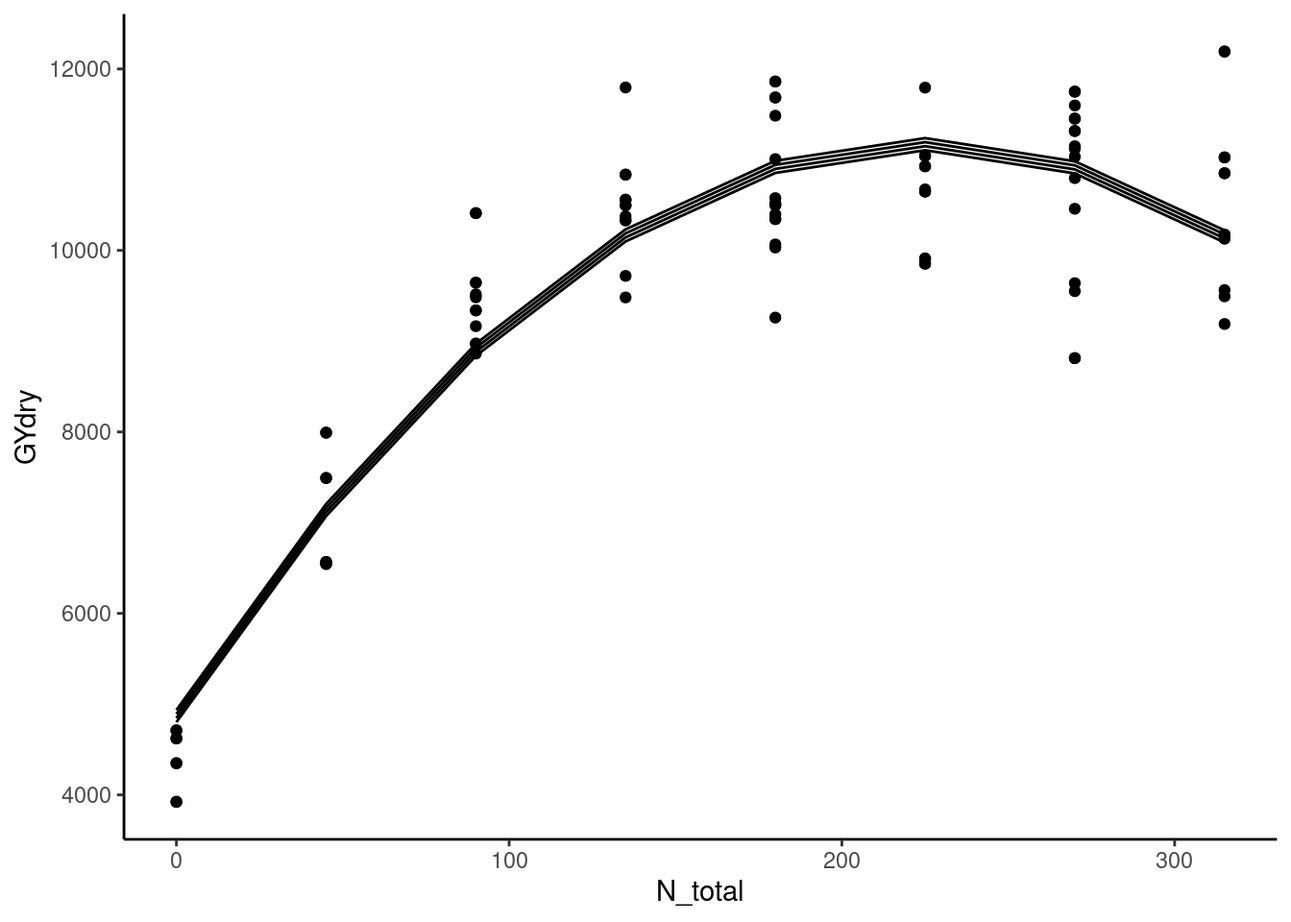
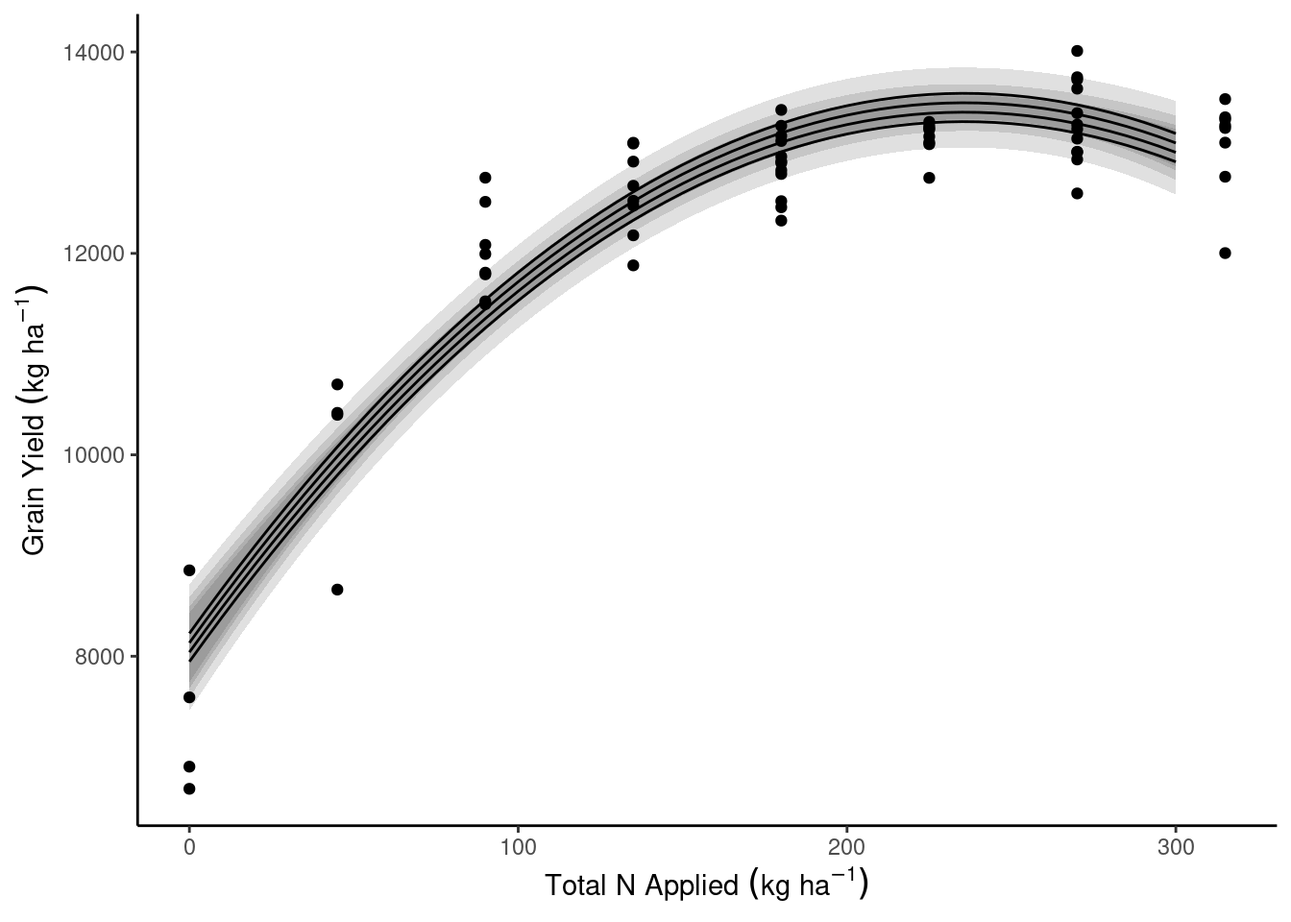
day 20

diff --git a/classes/day20_10042024.html b/classes/day20_10042024.html
@@ -98,7 +98,6 @@ pre > code.sourceCode > span > a:first-child::before { text-decoration: underlin
 <h2 class="anchored" data-anchor-id="announcements">Announcements</h2>
 <ul>
 <li><a href="https://forms.gle/5W3AWhzrEtoysn3P6">Mid-semester feedback survey</a> (please and thank you!)</li>
-<li></li>
 </ul>
 </section>
 <section id="model-selection-demo" class="level2">
@@ -124,189 +123,139 @@ pre > code.sourceCode > span > a:first-child::before { text-decoration: underlin
 <span id="cb2-13"><a href="#cb2-13" aria-hidden="true" tabindex="-1"></a>dd_N <span class="ot">&lt;-</span> readxl<span class="sc">::</span><span class="fu">read_xlsx</span>(<span class="st">"data/4.SoilN.xlsx"</span>, <span class="at">sheet =</span> <span class="dv">2</span>) <span class="sc">%&gt;%</span> </span>
 <span id="cb2-14"><a href="#cb2-14" aria-hidden="true" tabindex="-1"></a>  <span class="fu">filter</span>(Year <span class="sc">==</span> <span class="dv">2014</span>, </span>
 <span id="cb2-15"><a href="#cb2-15" aria-hidden="true" tabindex="-1"></a>         State <span class="sc">==</span> <span class="st">"IA"</span>, </span>
-<span id="cb2-16"><a href="#cb2-16" aria-hidden="true" tabindex="-1"></a>         Site <span class="sc">==</span> <span class="st">"Ames"</span>) <span class="sc">%&gt;%</span> </span>
-<span id="cb2-17"><a href="#cb2-17" aria-hidden="true" tabindex="-1"></a>  <span class="fu">mutate</span>(<span class="fu">across</span>(<span class="fu">c</span>(Plot_ID, N_Trt, Plant_N, Side_N, Plant_N_SI, Side_N_SI), <span class="sc">~</span><span class="fu">as.numeric</span>(.)))</span>
-<span id="cb2-18"><a href="#cb2-18" aria-hidden="true" tabindex="-1"></a>dd_N</span></code><button title="Copy to Clipboard" class="code-copy-button"><i class="bi"></i></button></pre></div>
-<div class="cell-output cell-output-stdout">
-<pre><code># A tibble: 100 × 17
-    Year State Site  Site_Prod Sam_Time Plot_ID Block N_Trt Plant_N Side_N
-   &lt;dbl&gt; &lt;chr&gt; &lt;chr&gt; &lt;chr&gt;     &lt;chr&gt;      &lt;dbl&gt; &lt;dbl&gt; &lt;dbl&gt;   &lt;dbl&gt;  &lt;dbl&gt;
- 1  2014 IA    Ames  Low       Post         101     1     2      40      0
- 2  2014 IA    Ames  Low       Post         102     1     3      80      0
- 3  2014 IA    Ames  Low       Post         103     1     9      40     40
- 4  2014 IA    Ames  Low       Post         104     1    14      40    240
- 5  2014 IA    Ames  Low       Post         105     1    16      80    160
- 6  2014 IA    Ames  Low       Post         106     1    13      40    200
- 7  2014 IA    Ames  Low       Post         107     1    10      40     80
- 8  2014 IA    Ames  Low       Post         108     1     5     160      0
- 9  2014 IA    Ames  Low       Post         109     1     1       0      0
-10  2014 IA    Ames  Low       Post         110     1     4     120      0
-# ℹ 90 more rows
-# ℹ 7 more variables: Plant_N_SI &lt;dbl&gt;, Side_N_SI &lt;dbl&gt;, Nitrate1 &lt;chr&gt;,
-#   Nitrate2 &lt;chr&gt;, Nitrate3 &lt;chr&gt;, Ammonium1 &lt;chr&gt;, Comment &lt;chr&gt;</code></pre>
-</div>
+<span id="cb2-16"><a href="#cb2-16" aria-hidden="true" tabindex="-1"></a>         Site <span class="sc">==</span> <span class="st">"Ames"</span>, </span>
+<span id="cb2-17"><a href="#cb2-17" aria-hidden="true" tabindex="-1"></a>         Plot_ID <span class="sc">%in%</span> dd_yield<span class="sc">$</span>Plot_ID, </span>
+<span id="cb2-18"><a href="#cb2-18" aria-hidden="true" tabindex="-1"></a>         Sam_Time <span class="sc">==</span> <span class="st">"Post"</span>) <span class="sc">%&gt;%</span> </span>
+<span id="cb2-19"><a href="#cb2-19" aria-hidden="true" tabindex="-1"></a>  <span class="fu">mutate</span>(<span class="fu">across</span>(<span class="fu">c</span>(Plot_ID, N_Trt, Plant_N, Side_N, Plant_N_SI, Side_N_SI), <span class="sc">~</span><span class="fu">as.numeric</span>(.)))</span></code><button title="Copy to Clipboard" class="code-copy-button"><i class="bi"></i></button></pre></div>
 </div>
 <div class="cell">
-<div class="sourceCode cell-code" id="cb4"><pre class="sourceCode r code-with-copy"><code class="sourceCode r"><span id="cb4-1"><a href="#cb4-1" aria-hidden="true" tabindex="-1"></a>dd_yield <span class="ot">&lt;-</span> readxl<span class="sc">::</span><span class="fu">read_xlsx</span>(<span class="st">"data/8.Yield_Plant_Measurements.xlsx"</span>, <span class="at">sheet =</span> <span class="dv">2</span>) <span class="sc">%&gt;%</span></span>
-<span id="cb4-2"><a href="#cb4-2" aria-hidden="true" tabindex="-1"></a>  <span class="fu">filter</span>(Year <span class="sc">==</span> <span class="dv">2014</span>, </span>
-<span id="cb4-3"><a href="#cb4-3" aria-hidden="true" tabindex="-1"></a>         State <span class="sc">==</span> <span class="st">"IA"</span>, </span>
-<span id="cb4-4"><a href="#cb4-4" aria-hidden="true" tabindex="-1"></a>         Site <span class="sc">==</span> <span class="st">"MasonCity"</span>) <span class="sc">%&gt;%</span> </span>
-<span id="cb4-5"><a href="#cb4-5" aria-hidden="true" tabindex="-1"></a>  <span class="fu">mutate</span>(<span class="fu">across</span>(VT_TissN<span class="sc">:</span>R4N, <span class="sc">~</span> <span class="fu">as.numeric</span>(.)))</span>
-<span id="cb4-6"><a href="#cb4-6" aria-hidden="true" tabindex="-1"></a>dd_soil <span class="ot">&lt;-</span> readxl<span class="sc">::</span><span class="fu">read_xlsx</span>(<span class="st">"data/1.Site_Characterization.xlsx"</span>, <span class="at">sheet =</span> <span class="dv">2</span>) <span class="sc">%&gt;%</span> </span>
-<span id="cb4-7"><a href="#cb4-7" aria-hidden="true" tabindex="-1"></a>  <span class="fu">filter</span>(Year <span class="sc">==</span> <span class="dv">2014</span>, </span>
-<span id="cb4-8"><a href="#cb4-8" aria-hidden="true" tabindex="-1"></a>         State <span class="sc">==</span> <span class="st">"IA"</span>, </span>
-<span id="cb4-9"><a href="#cb4-9" aria-hidden="true" tabindex="-1"></a>         Site <span class="sc">==</span> <span class="st">"MasonCity"</span>, </span>
-<span id="cb4-10"><a href="#cb4-10" aria-hidden="true" tabindex="-1"></a>         Horizon <span class="sc">==</span> <span class="st">"Ap"</span>) <span class="sc">%&gt;%</span> </span>
-<span id="cb4-11"><a href="#cb4-11" aria-hidden="true" tabindex="-1"></a>  <span class="fu">mutate</span>(<span class="at">Block =</span> <span class="fu">as.numeric</span>(Block), </span>
-<span id="cb4-12"><a href="#cb4-12" aria-hidden="true" tabindex="-1"></a>         <span class="fu">across</span>(Clay<span class="sc">:</span>WC, <span class="sc">~</span><span class="fu">as.numeric</span>(.)))</span>
-<span id="cb4-13"><a href="#cb4-13" aria-hidden="true" tabindex="-1"></a>dd_N <span class="ot">&lt;-</span> readxl<span class="sc">::</span><span class="fu">read_xlsx</span>(<span class="st">"data/4.SoilN.xlsx"</span>, <span class="at">sheet =</span> <span class="dv">2</span>) <span class="sc">%&gt;%</span> </span>
-<span id="cb4-14"><a href="#cb4-14" aria-hidden="true" tabindex="-1"></a>  <span class="fu">filter</span>(Year <span class="sc">==</span> <span class="dv">2014</span>, </span>
-<span id="cb4-15"><a href="#cb4-15" aria-hidden="true" tabindex="-1"></a>         State <span class="sc">==</span> <span class="st">"IA"</span>, </span>
-<span id="cb4-16"><a href="#cb4-16" aria-hidden="true" tabindex="-1"></a>         Site <span class="sc">==</span> <span class="st">"MasonCity"</span>) <span class="sc">%&gt;%</span> </span>
-<span id="cb4-17"><a href="#cb4-17" aria-hidden="true" tabindex="-1"></a>  <span class="fu">mutate</span>(<span class="fu">across</span>(<span class="fu">c</span>(Plot_ID, N_Trt, Plant_N, Side_N, Plant_N_SI, Side_N_SI), <span class="sc">~</span><span class="fu">as.numeric</span>(.)))</span>
-<span id="cb4-18"><a href="#cb4-18" aria-hidden="true" tabindex="-1"></a>dd_N</span></code><button title="Copy to Clipboard" class="code-copy-button"><i class="bi"></i></button></pre></div>
-<div class="cell-output cell-output-stdout">
-<pre><code># A tibble: 100 × 17
-    Year State Site      Site_Prod Sam_Time Plot_ID Block N_Trt Plant_N Side_N
-   &lt;dbl&gt; &lt;chr&gt; &lt;chr&gt;     &lt;chr&gt;     &lt;chr&gt;      &lt;dbl&gt; &lt;dbl&gt; &lt;dbl&gt;   &lt;dbl&gt;  &lt;dbl&gt;
- 1  2014 IA    MasonCity High      Post         101     1     2      40      0
- 2  2014 IA    MasonCity High      Post         102     1     3      80      0
- 3  2014 IA    MasonCity High      Post         103     1     9      40     40
- 4  2014 IA    MasonCity High      Post         104     1    14      40    240
- 5  2014 IA    MasonCity High      Post         105     1    16      80    160
- 6  2014 IA    MasonCity High      Post         106     1    13      40    200
- 7  2014 IA    MasonCity High      Post         107     1    10      40     80
- 8  2014 IA    MasonCity High      Post         108     1     5     160      0
- 9  2014 IA    MasonCity High      Post         109     1     1       0      0
-10  2014 IA    MasonCity High      Post         110     1     4     120      0
-# ℹ 90 more rows
-# ℹ 7 more variables: Plant_N_SI &lt;dbl&gt;, Side_N_SI &lt;dbl&gt;, Nitrate1 &lt;chr&gt;,
-#   Nitrate2 &lt;chr&gt;, Nitrate3 &lt;chr&gt;, Ammonium1 &lt;chr&gt;, Comment &lt;chr&gt;</code></pre>
-</div>
-</div>
-<div class="cell">
-<div class="sourceCode cell-code" id="cb6"><pre class="sourceCode r code-with-copy"><code class="sourceCode r"><span id="cb6-1"><a href="#cb6-1" aria-hidden="true" tabindex="-1"></a>dd_complete <span class="ot">&lt;-</span> dd_yield <span class="sc">%&gt;%</span> </span>
-<span id="cb6-2"><a href="#cb6-2" aria-hidden="true" tabindex="-1"></a>  <span class="fu">left_join</span>(dd_soil) <span class="sc">%&gt;%</span> </span>
-<span id="cb6-3"><a href="#cb6-3" aria-hidden="true" tabindex="-1"></a>  <span class="fu">left_join</span>(dd_N)</span></code><button title="Copy to Clipboard" class="code-copy-button"><i class="bi"></i></button></pre></div>
+<div class="sourceCode cell-code" id="cb3"><pre class="sourceCode r code-with-copy"><code class="sourceCode r"><span id="cb3-1"><a href="#cb3-1" aria-hidden="true" tabindex="-1"></a>dd_complete <span class="ot">&lt;-</span> dd_yield <span class="sc">%&gt;%</span> </span>
+<span id="cb3-2"><a href="#cb3-2" aria-hidden="true" tabindex="-1"></a>  <span class="fu">left_join</span>(dd_soil) <span class="sc">%&gt;%</span> </span>
+<span id="cb3-3"><a href="#cb3-3" aria-hidden="true" tabindex="-1"></a>  <span class="fu">left_join</span>(dd_N)</span></code><button title="Copy to Clipboard" class="code-copy-button"><i class="bi"></i></button></pre></div>
 <div class="cell-output cell-output-stderr">
 <pre><code>Joining with `by = join_by(Year, State, Site, Block)`
 Joining with `by = join_by(Year, State, Site, Site_Prod, Plot_ID, Block, N_Trt,
 Plant_N, Side_N, Plant_N_SI, Side_N_SI)`</code></pre>
 </div>
-<div class="sourceCode cell-code" id="cb8"><pre class="sourceCode r code-with-copy"><code class="sourceCode r"><span id="cb8-1"><a href="#cb8-1" aria-hidden="true" tabindex="-1"></a>dd_complete <span class="ot">&lt;-</span> dd_complete <span class="sc">%&gt;%</span> </span>
-<span id="cb8-2"><a href="#cb8-2" aria-hidden="true" tabindex="-1"></a>  <span class="fu">mutate</span>(<span class="at">gyield_14 =</span> GYdry<span class="sc">/</span>.<span class="dv">94</span>, </span>
-<span id="cb8-3"><a href="#cb8-3" aria-hidden="true" tabindex="-1"></a>         <span class="at">N_total =</span> Plant_N_SI <span class="sc">+</span> Side_N_SI)</span></code><button title="Copy to Clipboard" class="code-copy-button"><i class="bi"></i></button></pre></div>
+<div class="sourceCode cell-code" id="cb5"><pre class="sourceCode r code-with-copy"><code class="sourceCode r"><span id="cb5-1"><a href="#cb5-1" aria-hidden="true" tabindex="-1"></a>dd_complete <span class="ot">&lt;-</span> dd_complete <span class="sc">%&gt;%</span> </span>
+<span id="cb5-2"><a href="#cb5-2" aria-hidden="true" tabindex="-1"></a>  <span class="fu">mutate</span>(<span class="at">gyield_14 =</span> GYdry<span class="sc">/</span>.<span class="dv">94</span>, </span>
+<span id="cb5-3"><a href="#cb5-3" aria-hidden="true" tabindex="-1"></a>         <span class="at">N_total =</span> Plant_N_SI <span class="sc">+</span> Side_N_SI)</span></code><button title="Copy to Clipboard" class="code-copy-button"><i class="bi"></i></button></pre></div>
 </div>
 <div class="cell">
-<div class="sourceCode cell-code" id="cb9"><pre class="sourceCode r code-with-copy"><code class="sourceCode r"><span id="cb9-1"><a href="#cb9-1" aria-hidden="true" tabindex="-1"></a>dd_complete <span class="sc">%&gt;%</span> </span>
-<span id="cb9-2"><a href="#cb9-2" aria-hidden="true" tabindex="-1"></a>  <span class="fu">ggplot</span>(<span class="fu">aes</span>(N_total, GYdry))<span class="sc">+</span></span>
-<span id="cb9-3"><a href="#cb9-3" aria-hidden="true" tabindex="-1"></a>  <span class="fu">geom_point</span>()</span></code><button title="Copy to Clipboard" class="code-copy-button"><i class="bi"></i></button></pre></div>
+<div class="sourceCode cell-code" id="cb6"><pre class="sourceCode r code-with-copy"><code class="sourceCode r"><span id="cb6-1"><a href="#cb6-1" aria-hidden="true" tabindex="-1"></a>dd_complete <span class="sc">%&gt;%</span> </span>
+<span id="cb6-2"><a href="#cb6-2" aria-hidden="true" tabindex="-1"></a>  <span class="fu">ggplot</span>(<span class="fu">aes</span>(N_total, gyield_14))<span class="sc">+</span></span>
+<span id="cb6-3"><a href="#cb6-3" aria-hidden="true" tabindex="-1"></a>  <span class="fu">geom_point</span>()<span class="sc">+</span></span>
+<span id="cb6-4"><a href="#cb6-4" aria-hidden="true" tabindex="-1"></a>  <span class="fu">theme_classic</span>()<span class="sc">+</span></span>
+<span id="cb6-5"><a href="#cb6-5" aria-hidden="true" tabindex="-1"></a>  <span class="fu">labs</span>(<span class="at">x =</span> <span class="fu">expression</span>(Total<span class="sc">~</span>N<span class="sc">~</span>Applied<span class="sc">~</span>(kg<span class="sc">~</span>ha<span class="sc">^</span>{<span class="sc">-</span><span class="dv">1</span>})),</span>
+<span id="cb6-6"><a href="#cb6-6" aria-hidden="true" tabindex="-1"></a>       <span class="at">y =</span> <span class="fu">expression</span>(Grain<span class="sc">~</span>Yield<span class="sc">~</span>(kg<span class="sc">~</span>ha<span class="sc">^</span>{<span class="sc">-</span><span class="dv">1</span>})))</span></code><button title="Copy to Clipboard" class="code-copy-button"><i class="bi"></i></button></pre></div>
 <div class="cell-output-display">
-<p><img src="day20_10042024_files/figure-html/unnamed-chunk-5-1.png" class="img-fluid" width="672"></p>
+<p><img src="day20_10042024_files/figure-html/unnamed-chunk-4-1.png" class="img-fluid" width="672"></p>
 </div>
 </div>
 <div class="cell">
-<div class="sourceCode cell-code" id="cb10"><pre class="sourceCode r code-with-copy"><code class="sourceCode r"><span id="cb10-1"><a href="#cb10-1" aria-hidden="true" tabindex="-1"></a>m1 <span class="ot">&lt;-</span> <span class="fu">lm</span>(GYdry <span class="sc">~</span> N_total <span class="sc">+</span> <span class="fu">I</span>(N_total<span class="sc">^</span><span class="dv">2</span>), <span class="at">data =</span> dd_complete)</span>
-<span id="cb10-2"><a href="#cb10-2" aria-hidden="true" tabindex="-1"></a>m2 <span class="ot">&lt;-</span> <span class="fu">lm</span>(GYdry <span class="sc">~</span> N_total <span class="sc">+</span> <span class="fu">I</span>(N_total<span class="sc">^</span><span class="dv">2</span>) <span class="sc">+</span> Block , <span class="at">data =</span> dd_complete)</span>
-<span id="cb10-3"><a href="#cb10-3" aria-hidden="true" tabindex="-1"></a>m3 <span class="ot">&lt;-</span> <span class="fu">lm</span>(GYdry <span class="sc">~</span> N_total <span class="sc">+</span> <span class="fu">I</span>(N_total<span class="sc">^</span><span class="dv">2</span>) <span class="sc">+</span> Block <span class="sc">+</span> TOC, <span class="at">data =</span> dd_complete)</span>
-<span id="cb10-4"><a href="#cb10-4" aria-hidden="true" tabindex="-1"></a>m4 <span class="ot">&lt;-</span> <span class="fu">lm</span>(GYdry <span class="sc">~</span> N_total <span class="sc">+</span> <span class="fu">I</span>(N_total<span class="sc">^</span><span class="dv">2</span>) <span class="sc">+</span> Block <span class="sc">+</span> TOC <span class="sc">+</span> Clay, <span class="at">data =</span> dd_complete)   </span>
-<span id="cb10-5"><a href="#cb10-5" aria-hidden="true" tabindex="-1"></a>m5 <span class="ot">&lt;-</span> <span class="fu">lm</span>(GYdry <span class="sc">~</span> N_total <span class="sc">+</span> <span class="fu">I</span>(N_total<span class="sc">^</span><span class="dv">2</span>) <span class="sc">+</span> Block <span class="sc">+</span> TOC <span class="sc">+</span> Clay <span class="sc">+</span> Sand, <span class="at">data =</span> dd_complete)</span>
-<span id="cb10-6"><a href="#cb10-6" aria-hidden="true" tabindex="-1"></a>m6 <span class="ot">&lt;-</span> <span class="fu">lm</span>(GYdry <span class="sc">~</span> N_total <span class="sc">+</span> <span class="fu">I</span>(N_total<span class="sc">^</span><span class="dv">2</span>) <span class="sc">+</span> Block <span class="sc">+</span> TOC <span class="sc">+</span> Clay <span class="sc">+</span> Sand <span class="sc">+</span> Silt, <span class="at">data =</span> dd_complete)</span></code><button title="Copy to Clipboard" class="code-copy-button"><i class="bi"></i></button></pre></div>
+<div class="sourceCode cell-code" id="cb7"><pre class="sourceCode r code-with-copy"><code class="sourceCode r"><span id="cb7-1"><a href="#cb7-1" aria-hidden="true" tabindex="-1"></a>m0 <span class="ot">&lt;-</span> <span class="fu">lm</span>(gyield_14 <span class="sc">~</span> N_total, <span class="at">data =</span> dd_complete)</span>
+<span id="cb7-2"><a href="#cb7-2" aria-hidden="true" tabindex="-1"></a>m1 <span class="ot">&lt;-</span> <span class="fu">lm</span>(gyield_14 <span class="sc">~</span> N_total <span class="sc">+</span> <span class="fu">I</span>(N_total<span class="sc">^</span><span class="dv">2</span>), <span class="at">data =</span> dd_complete)</span>
+<span id="cb7-3"><a href="#cb7-3" aria-hidden="true" tabindex="-1"></a>m2 <span class="ot">&lt;-</span> <span class="fu">lm</span>(gyield_14 <span class="sc">~</span> N_total <span class="sc">+</span> <span class="fu">I</span>(N_total<span class="sc">^</span><span class="dv">2</span>) <span class="sc">+</span> Block , <span class="at">data =</span> dd_complete)</span>
+<span id="cb7-4"><a href="#cb7-4" aria-hidden="true" tabindex="-1"></a>m3 <span class="ot">&lt;-</span> <span class="fu">lm</span>(gyield_14 <span class="sc">~</span> N_total <span class="sc">+</span> <span class="fu">I</span>(N_total<span class="sc">^</span><span class="dv">2</span>) <span class="sc">+</span> Block <span class="sc">+</span> PMPM, <span class="at">data =</span> dd_complete)</span>
+<span id="cb7-5"><a href="#cb7-5" aria-hidden="true" tabindex="-1"></a>m4 <span class="ot">&lt;-</span> <span class="fu">lm</span>(gyield_14 <span class="sc">~</span> N_total <span class="sc">+</span> <span class="fu">I</span>(N_total<span class="sc">^</span><span class="dv">2</span>) <span class="sc">+</span> Block <span class="sc">+</span> PMPM <span class="sc">+</span> Clay, <span class="at">data =</span> dd_complete)   </span>
+<span id="cb7-6"><a href="#cb7-6" aria-hidden="true" tabindex="-1"></a>m5 <span class="ot">&lt;-</span> <span class="fu">lm</span>(gyield_14 <span class="sc">~</span> N_total <span class="sc">+</span> <span class="fu">I</span>(N_total<span class="sc">^</span><span class="dv">2</span>) <span class="sc">+</span> Block <span class="sc">+</span> PMPM <span class="sc">+</span> Clay <span class="sc">+</span> Sand, <span class="at">data =</span> dd_complete)</span>
+<span id="cb7-7"><a href="#cb7-7" aria-hidden="true" tabindex="-1"></a>m6 <span class="ot">&lt;-</span> <span class="fu">lm</span>(gyield_14 <span class="sc">~</span> N_total <span class="sc">+</span> <span class="fu">I</span>(N_total<span class="sc">^</span><span class="dv">2</span>) <span class="sc">+</span> Block <span class="sc">+</span> PMPM <span class="sc">+</span> Clay <span class="sc">+</span> Sand <span class="sc">+</span> Silt, <span class="at">data =</span> dd_complete)</span></code><button title="Copy to Clipboard" class="code-copy-button"><i class="bi"></i></button></pre></div>
 </div>
 <div class="cell">
-<div class="sourceCode cell-code" id="cb11"><pre class="sourceCode r code-with-copy"><code class="sourceCode r"><span id="cb11-1"><a href="#cb11-1" aria-hidden="true" tabindex="-1"></a><span class="fu">summary</span>(m1)</span></code><button title="Copy to Clipboard" class="code-copy-button"><i class="bi"></i></button></pre></div>
+<div class="sourceCode cell-code" id="cb8"><pre class="sourceCode r code-with-copy"><code class="sourceCode r"><span id="cb8-1"><a href="#cb8-1" aria-hidden="true" tabindex="-1"></a><span class="fu">summary</span>(m1)</span></code><button title="Copy to Clipboard" class="code-copy-button"><i class="bi"></i></button></pre></div>
 <div class="cell-output cell-output-stdout">
 <pre><code>
 Call:
-lm(formula = GYdry ~ N_total + I(N_total^2), data = dd_complete)
+lm(formula = gyield_14 ~ N_total + I(N_total^2), data = dd_complete)
 
 Residuals:
      Min       1Q   Median       3Q      Max 
--2102.35  -522.38    43.16   585.75  2037.25 
+-1402.83  -327.26   -14.24   417.76  1351.67 
 
 Coefficients:
                Estimate Std. Error t value Pr(&gt;|t|)    
-(Intercept)   4.868e+03  2.373e+02   20.51   &lt;2e-16 ***
-N_total       5.609e+01  3.190e+00   17.58   &lt;2e-16 ***
-I(N_total^2) -1.248e-01  9.367e-03  -13.32   &lt;2e-16 ***
+(Intercept)   8.087e+03  2.265e+02   35.70   &lt;2e-16 ***
+N_total       4.550e+01  2.886e+00   15.77   &lt;2e-16 ***
+I(N_total^2) -9.652e-02  8.239e-03  -11.71   &lt;2e-16 ***
 ---
 Signif. codes:  0 '***' 0.001 '**' 0.01 '*' 0.05 '.' 0.1 ' ' 1
 
-Residual standard error: 818.1 on 93 degrees of freedom
-Multiple R-squared:  0.8394,    Adjusted R-squared:  0.836 
-F-statistic: 243.1 on 2 and 93 DF,  p-value: &lt; 2.2e-16</code></pre>
+Residual standard error: 564.3 on 61 degrees of freedom
+Multiple R-squared:  0.8734,    Adjusted R-squared:  0.8692 
+F-statistic: 210.4 on 2 and 61 DF,  p-value: &lt; 2.2e-16</code></pre>
 </div>
-<div class="sourceCode cell-code" id="cb13"><pre class="sourceCode r code-with-copy"><code class="sourceCode r"><span id="cb13-1"><a href="#cb13-1" aria-hidden="true" tabindex="-1"></a><span class="fu">summary</span>(m5)</span></code><button title="Copy to Clipboard" class="code-copy-button"><i class="bi"></i></button></pre></div>
+<div class="sourceCode cell-code" id="cb10"><pre class="sourceCode r code-with-copy"><code class="sourceCode r"><span id="cb10-1"><a href="#cb10-1" aria-hidden="true" tabindex="-1"></a><span class="fu">summary</span>(m5)</span></code><button title="Copy to Clipboard" class="code-copy-button"><i class="bi"></i></button></pre></div>
 <div class="cell-output cell-output-stdout">
 <pre><code>
 Call:
-lm(formula = GYdry ~ N_total + I(N_total^2) + Block + TOC + Clay + 
-    Sand, data = dd_complete)
+lm(formula = gyield_14 ~ N_total + I(N_total^2) + Block + PMPM + 
+    Clay + Sand, data = dd_complete)
 
 Residuals:
      Min       1Q   Median       3Q      Max 
--1794.18  -583.12   -51.26   546.39  1857.44 
+-1358.67  -369.15    50.32   395.71  1328.61 
+
+Coefficients:
+               Estimate Std. Error t value Pr(&gt;|t|)    
+(Intercept)  -1.785e+04  2.108e+04  -0.847    0.401    
+N_total       4.556e+01  2.838e+00  16.052   &lt;2e-16 ***
+I(N_total^2) -9.704e-02  8.118e-03 -11.955   &lt;2e-16 ***
+Block         4.780e+02  3.068e+02   1.558    0.125    
+PMPM          1.999e+01  1.962e+01   1.019    0.313    
+Clay          6.088e+02  5.213e+02   1.168    0.248    
+Sand          2.290e+02  2.007e+02   1.141    0.259    
+---
+Signif. codes:  0 '***' 0.001 '**' 0.01 '*' 0.05 '.' 0.1 ' ' 1
+
+Residual standard error: 554.9 on 57 degrees of freedom
+Multiple R-squared:  0.8856,    Adjusted R-squared:  0.8736 
+F-statistic: 73.55 on 6 and 57 DF,  p-value: &lt; 2.2e-16</code></pre>
+</div>
+<div class="sourceCode cell-code" id="cb12"><pre class="sourceCode r code-with-copy"><code class="sourceCode r"><span id="cb12-1"><a href="#cb12-1" aria-hidden="true" tabindex="-1"></a><span class="fu">summary</span>(m6)</span></code><button title="Copy to Clipboard" class="code-copy-button"><i class="bi"></i></button></pre></div>
+<div class="cell-output cell-output-stdout">
+<pre><code>
+Call:
+lm(formula = gyield_14 ~ N_total + I(N_total^2) + Block + PMPM + 
+    Clay + Sand + Silt, data = dd_complete)
+
+Residuals:
+     Min       1Q   Median       3Q      Max 
+-1358.67  -369.15    50.32   395.71  1328.61 
 
 Coefficients: (1 not defined because of singularities)
                Estimate Std. Error t value Pr(&gt;|t|)    
-(Intercept)   4.865e+03  1.344e+03   3.619 0.000489 ***
-N_total       5.609e+01  3.151e+00  17.802  &lt; 2e-16 ***
-I(N_total^2) -1.248e-01  9.252e-03 -13.488  &lt; 2e-16 ***
-Block        -3.922e+01  8.362e+01  -0.469 0.640132    
-TOC           1.118e+03  5.120e+02   2.183 0.031658 *  
-Clay         -7.620e+01  5.201e+01  -1.465 0.146374    
-Sand                 NA         NA      NA       NA    
----
-Signif. codes:  0 '***' 0.001 '**' 0.01 '*' 0.05 '.' 0.1 ' ' 1
-
-Residual standard error: 808 on 90 degrees of freedom
-Multiple R-squared:  0.8484,    Adjusted R-squared:   0.84 
-F-statistic: 100.7 on 5 and 90 DF,  p-value: &lt; 2.2e-16</code></pre>
-</div>
-<div class="sourceCode cell-code" id="cb15"><pre class="sourceCode r code-with-copy"><code class="sourceCode r"><span id="cb15-1"><a href="#cb15-1" aria-hidden="true" tabindex="-1"></a><span class="fu">summary</span>(m6)</span></code><button title="Copy to Clipboard" class="code-copy-button"><i class="bi"></i></button></pre></div>
-<div class="cell-output cell-output-stdout">
-<pre><code>
-Call:
-lm(formula = GYdry ~ N_total + I(N_total^2) + Block + TOC + Clay + 
-    Sand + Silt, data = dd_complete)
-
-Residuals:
-     Min       1Q   Median       3Q      Max 
--1794.18  -583.12   -51.26   546.39  1857.44 
-
-Coefficients: (2 not defined because of singularities)
-               Estimate Std. Error t value Pr(&gt;|t|)    
-(Intercept)   4.865e+03  1.344e+03   3.619 0.000489 ***
-N_total       5.609e+01  3.151e+00  17.802  &lt; 2e-16 ***
-I(N_total^2) -1.248e-01  9.252e-03 -13.488  &lt; 2e-16 ***
-Block        -3.922e+01  8.362e+01  -0.469 0.640132    
-TOC           1.118e+03  5.120e+02   2.183 0.031658 *  
-Clay         -7.620e+01  5.201e+01  -1.465 0.146374    
-Sand                 NA         NA      NA       NA    
+(Intercept)  -1.785e+04  2.108e+04  -0.847    0.401    
+N_total       4.556e+01  2.838e+00  16.052   &lt;2e-16 ***
+I(N_total^2) -9.704e-02  8.118e-03 -11.955   &lt;2e-16 ***
+Block         4.780e+02  3.068e+02   1.558    0.125    
+PMPM          1.999e+01  1.962e+01   1.019    0.313    
+Clay          6.088e+02  5.213e+02   1.168    0.248    
+Sand          2.290e+02  2.007e+02   1.141    0.259    
 Silt                 NA         NA      NA       NA    
 ---
 Signif. codes:  0 '***' 0.001 '**' 0.01 '*' 0.05 '.' 0.1 ' ' 1
 
-Residual standard error: 808 on 90 degrees of freedom
-Multiple R-squared:  0.8484,    Adjusted R-squared:   0.84 
-F-statistic: 100.7 on 5 and 90 DF,  p-value: &lt; 2.2e-16</code></pre>
+Residual standard error: 554.9 on 57 degrees of freedom
+Multiple R-squared:  0.8856,    Adjusted R-squared:  0.8736 
+F-statistic: 73.55 on 6 and 57 DF,  p-value: &lt; 2.2e-16</code></pre>
 </div>
 </div>
 <div class="cell">
-<div class="sourceCode cell-code" id="cb17"><pre class="sourceCode r code-with-copy"><code class="sourceCode r"><span id="cb17-1"><a href="#cb17-1" aria-hidden="true" tabindex="-1"></a>metrics <span class="ot">&lt;-</span> <span class="fu">data.frame</span>(<span class="at">model =</span> <span class="fu">c</span>(<span class="st">"N_total + I(N_total^2)"</span>,</span>
-<span id="cb17-2"><a href="#cb17-2" aria-hidden="true" tabindex="-1"></a>                                <span class="st">"N_total + I(N_total^2) + Block"</span>,</span>
-<span id="cb17-3"><a href="#cb17-3" aria-hidden="true" tabindex="-1"></a>                                <span class="st">"N_total + I(N_total^2) + Block + Plot_ID"</span>, </span>
-<span id="cb17-4"><a href="#cb17-4" aria-hidden="true" tabindex="-1"></a>                                <span class="st">"N_total + I(N_total^2) + Block + Plot_ID + Clay"</span>, </span>
-<span id="cb17-5"><a href="#cb17-5" aria-hidden="true" tabindex="-1"></a>                                <span class="st">"N_total + I(N_total^2) + Block + Plot_ID + Clay + Sand"</span>, </span>
-<span id="cb17-6"><a href="#cb17-6" aria-hidden="true" tabindex="-1"></a>                                <span class="st">"N_total + I(N_total^2) + Block + Plot_ID + Clay + Sand + Silt"</span>),</span>
-<span id="cb17-7"><a href="#cb17-7" aria-hidden="true" tabindex="-1"></a>                      <span class="at">R2 =</span> <span class="fu">c</span>(<span class="fu">summary</span>(m1)<span class="sc">$</span>r.squared, <span class="fu">summary</span>(m2)<span class="sc">$</span>r.squared, <span class="fu">summary</span>(m3)<span class="sc">$</span>r.squared,</span>
-<span id="cb17-8"><a href="#cb17-8" aria-hidden="true" tabindex="-1"></a>                             <span class="fu">summary</span>(m4)<span class="sc">$</span>r.squared, <span class="fu">summary</span>(m5)<span class="sc">$</span>r.squared, <span class="fu">summary</span>(m6)<span class="sc">$</span>r.squared),</span>
-<span id="cb17-9"><a href="#cb17-9" aria-hidden="true" tabindex="-1"></a>                      <span class="at">R2_adj =</span> <span class="fu">c</span>(<span class="fu">summary</span>(m1)<span class="sc">$</span>adj.r.squared, <span class="fu">summary</span>(m2)<span class="sc">$</span>adj.r.squared, <span class="fu">summary</span>(m3)<span class="sc">$</span>adj.r.squared,</span>
-<span id="cb17-10"><a href="#cb17-10" aria-hidden="true" tabindex="-1"></a>                                 <span class="fu">summary</span>(m4)<span class="sc">$</span>adj.r.squared, <span class="fu">summary</span>(m5)<span class="sc">$</span>adj.r.squared, <span class="fu">summary</span>(m6)<span class="sc">$</span>adj.r.squared),</span>
-<span id="cb17-11"><a href="#cb17-11" aria-hidden="true" tabindex="-1"></a>                      <span class="at">AIC =</span> <span class="fu">AIC</span>(m1, m2, m3, m4, m5, m6)<span class="sc">$</span>AIC,</span>
-<span id="cb17-12"><a href="#cb17-12" aria-hidden="true" tabindex="-1"></a>                      <span class="at">BIC =</span> <span class="fu">BIC</span>(m1, m2, m3, m4, m5, m6)<span class="sc">$</span>BIC) </span>
-<span id="cb17-13"><a href="#cb17-13" aria-hidden="true" tabindex="-1"></a></span>
-<span id="cb17-14"><a href="#cb17-14" aria-hidden="true" tabindex="-1"></a>knitr<span class="sc">::</span><span class="fu">kable</span>(metrics, <span class="at">format =</span> <span class="st">"html"</span>)</span></code><button title="Copy to Clipboard" class="code-copy-button"><i class="bi"></i></button></pre></div>
+<div class="sourceCode cell-code" id="cb14"><pre class="sourceCode r code-with-copy"><code class="sourceCode r"><span id="cb14-1"><a href="#cb14-1" aria-hidden="true" tabindex="-1"></a>metrics <span class="ot">&lt;-</span> <span class="fu">data.frame</span>(<span class="at">model =</span> <span class="fu">c</span>(<span class="st">"N_total + I(N_total^2)"</span>,</span>
+<span id="cb14-2"><a href="#cb14-2" aria-hidden="true" tabindex="-1"></a>                                <span class="st">"N_total + I(N_total^2) + Block"</span>,</span>
+<span id="cb14-3"><a href="#cb14-3" aria-hidden="true" tabindex="-1"></a>                                <span class="st">"N_total + I(N_total^2) + Block + PMPM"</span>, </span>
+<span id="cb14-4"><a href="#cb14-4" aria-hidden="true" tabindex="-1"></a>                                <span class="st">"N_total + I(N_total^2) + Block + PMPM + Clay"</span>, </span>
+<span id="cb14-5"><a href="#cb14-5" aria-hidden="true" tabindex="-1"></a>                                <span class="st">"N_total + I(N_total^2) + Block + PMPM + Clay + Sand"</span>, </span>
+<span id="cb14-6"><a href="#cb14-6" aria-hidden="true" tabindex="-1"></a>                                <span class="st">"N_total + I(N_total^2) + Block + PMPM + Clay + Sand + Silt"</span>),</span>
+<span id="cb14-7"><a href="#cb14-7" aria-hidden="true" tabindex="-1"></a>                      <span class="at">R2 =</span> <span class="fu">c</span>(<span class="fu">summary</span>(m1)<span class="sc">$</span>r.squared, <span class="fu">summary</span>(m2)<span class="sc">$</span>r.squared, <span class="fu">summary</span>(m3)<span class="sc">$</span>r.squared,</span>
+<span id="cb14-8"><a href="#cb14-8" aria-hidden="true" tabindex="-1"></a>                             <span class="fu">summary</span>(m4)<span class="sc">$</span>r.squared, <span class="fu">summary</span>(m5)<span class="sc">$</span>r.squared, <span class="fu">summary</span>(m6)<span class="sc">$</span>r.squared),</span>
+<span id="cb14-9"><a href="#cb14-9" aria-hidden="true" tabindex="-1"></a>                      <span class="at">R2_adj =</span> <span class="fu">c</span>(<span class="fu">summary</span>(m1)<span class="sc">$</span>adj.r.squared, <span class="fu">summary</span>(m2)<span class="sc">$</span>adj.r.squared, <span class="fu">summary</span>(m3)<span class="sc">$</span>adj.r.squared,</span>
+<span id="cb14-10"><a href="#cb14-10" aria-hidden="true" tabindex="-1"></a>                                 <span class="fu">summary</span>(m4)<span class="sc">$</span>adj.r.squared, <span class="fu">summary</span>(m5)<span class="sc">$</span>adj.r.squared, <span class="fu">summary</span>(m6)<span class="sc">$</span>adj.r.squared),</span>
+<span id="cb14-11"><a href="#cb14-11" aria-hidden="true" tabindex="-1"></a>                      <span class="at">AIC =</span> <span class="fu">AIC</span>(m1, m2, m3, m4, m5, m6)<span class="sc">$</span>AIC,</span>
+<span id="cb14-12"><a href="#cb14-12" aria-hidden="true" tabindex="-1"></a>                      <span class="at">BIC =</span> <span class="fu">BIC</span>(m1, m2, m3, m4, m5, m6)<span class="sc">$</span>BIC) <span class="sc">%&gt;%</span> </span>
+<span id="cb14-13"><a href="#cb14-13" aria-hidden="true" tabindex="-1"></a>  <span class="fu">mutate</span>(<span class="fu">across</span>(R2<span class="sc">:</span>BIC, <span class="sc">~</span><span class="fu">round</span>(., <span class="dv">3</span>)))</span>
+<span id="cb14-14"><a href="#cb14-14" aria-hidden="true" tabindex="-1"></a></span>
+<span id="cb14-15"><a href="#cb14-15" aria-hidden="true" tabindex="-1"></a>knitr<span class="sc">::</span><span class="fu">kable</span>(metrics, <span class="at">format =</span> <span class="st">"html"</span>)</span></code><button title="Copy to Clipboard" class="code-copy-button"><i class="bi"></i></button></pre></div>
 <div class="cell-output-display">
 <table data-quarto-postprocess="true" class="table table-sm table-striped small">
 <thead>
@@ -321,45 +270,45 @@ F-statistic: 100.7 on 5 and 90 DF,  p-value: &lt; 2.2e-16</code></pre>
 <tbody>
 <tr class="odd">
 <td style="text-align: left;">N_total + I(N_total^2)</td>
-<td style="text-align: right;">0.8394172</td>
-<td style="text-align: right;">0.8359638</td>
-<td style="text-align: right;">1565.118</td>
-<td style="text-align: right;">1575.376</td>
+<td style="text-align: right;">0.873</td>
+<td style="text-align: right;">0.869</td>
+<td style="text-align: right;">997.500</td>
+<td style="text-align: right;">1006.136</td>
 </tr>
 <tr class="even">
 <td style="text-align: left;">N_total + I(N_total^2) + Block</td>
-<td style="text-align: right;">0.8400288</td>
-<td style="text-align: right;">0.8348124</td>
-<td style="text-align: right;">1566.752</td>
-<td style="text-align: right;">1579.574</td>
+<td style="text-align: right;">0.878</td>
+<td style="text-align: right;">0.872</td>
+<td style="text-align: right;">997.147</td>
+<td style="text-align: right;">1007.941</td>
 </tr>
 <tr class="odd">
-<td style="text-align: left;">N_total + I(N_total^2) + Block + Plot_ID</td>
-<td style="text-align: right;">0.8447791</td>
-<td style="text-align: right;">0.8379562</td>
-<td style="text-align: right;">1565.858</td>
-<td style="text-align: right;">1581.244</td>
+<td style="text-align: left;">N_total + I(N_total^2) + Block + PMPM</td>
+<td style="text-align: right;">0.882</td>
+<td style="text-align: right;">0.874</td>
+<td style="text-align: right;">996.822</td>
+<td style="text-align: right;">1009.775</td>
 </tr>
 <tr class="even">
-<td style="text-align: left;">N_total + I(N_total^2) + Block + Plot_ID + Clay</td>
-<td style="text-align: right;">0.8483950</td>
-<td style="text-align: right;">0.8399725</td>
-<td style="text-align: right;">1565.595</td>
-<td style="text-align: right;">1583.546</td>
+<td style="text-align: left;">N_total + I(N_total^2) + Block + PMPM + Clay</td>
+<td style="text-align: right;">0.883</td>
+<td style="text-align: right;">0.873</td>
+<td style="text-align: right;">998.453</td>
+<td style="text-align: right;">1013.566</td>
 </tr>
 <tr class="odd">
-<td style="text-align: left;">N_total + I(N_total^2) + Block + Plot_ID + Clay + Sand</td>
-<td style="text-align: right;">0.8483950</td>
-<td style="text-align: right;">0.8399725</td>
-<td style="text-align: right;">1565.595</td>
-<td style="text-align: right;">1583.546</td>
+<td style="text-align: left;">N_total + I(N_total^2) + Block + PMPM + Clay + Sand</td>
+<td style="text-align: right;">0.886</td>
+<td style="text-align: right;">0.874</td>
+<td style="text-align: right;">999.008</td>
+<td style="text-align: right;">1016.279</td>
 </tr>
 <tr class="even">
-<td style="text-align: left;">N_total + I(N_total^2) + Block + Plot_ID + Clay + Sand + Silt</td>
-<td style="text-align: right;">0.8483950</td>
-<td style="text-align: right;">0.8399725</td>
-<td style="text-align: right;">1565.595</td>
-<td style="text-align: right;">1583.546</td>
+<td style="text-align: left;">N_total + I(N_total^2) + Block + PMPM + Clay + Sand + Silt</td>
+<td style="text-align: right;">0.886</td>
+<td style="text-align: right;">0.874</td>
+<td style="text-align: right;">999.008</td>
+<td style="text-align: right;">1016.279</td>
 </tr>
 </tbody>
 </table>
@@ -368,19 +317,21 @@ F-statistic: 100.7 on 5 and 90 DF,  p-value: &lt; 2.2e-16</code></pre>
 </div>
 </div>
 <div class="cell">
-<div class="sourceCode cell-code" id="cb18"><pre class="sourceCode r code-with-copy"><code class="sourceCode r"><span id="cb18-1"><a href="#cb18-1" aria-hidden="true" tabindex="-1"></a>data_plot <span class="ot">&lt;-</span> <span class="fu">expand.grid</span>(<span class="at">N_total =</span> <span class="fu">seq</span>(<span class="dv">0</span>, <span class="dv">300</span>, <span class="at">by =</span> <span class="dv">5</span>), </span>
-<span id="cb18-2"><a href="#cb18-2" aria-hidden="true" tabindex="-1"></a>                         <span class="at">Block =</span> <span class="dv">1</span><span class="sc">:</span><span class="dv">4</span>)</span>
-<span id="cb18-3"><a href="#cb18-3" aria-hidden="true" tabindex="-1"></a>data_plot <span class="ot">&lt;-</span> data_plot <span class="sc">%&gt;%</span> <span class="fu">bind_cols</span>(<span class="fu">predict</span>(m2, <span class="at">newdata =</span> data_plot, <span class="at">interval =</span> <span class="st">"confidence"</span>))</span></code><button title="Copy to Clipboard" class="code-copy-button"><i class="bi"></i></button></pre></div>
+<div class="sourceCode cell-code" id="cb15"><pre class="sourceCode r code-with-copy"><code class="sourceCode r"><span id="cb15-1"><a href="#cb15-1" aria-hidden="true" tabindex="-1"></a>data_plot <span class="ot">&lt;-</span> <span class="fu">expand.grid</span>(<span class="at">N_total =</span> <span class="fu">seq</span>(<span class="dv">0</span>, <span class="dv">300</span>, <span class="at">by =</span> <span class="dv">5</span>), </span>
+<span id="cb15-2"><a href="#cb15-2" aria-hidden="true" tabindex="-1"></a>                         <span class="at">Block =</span> <span class="dv">1</span><span class="sc">:</span><span class="dv">4</span>)</span>
+<span id="cb15-3"><a href="#cb15-3" aria-hidden="true" tabindex="-1"></a>data_plot <span class="ot">&lt;-</span> data_plot <span class="sc">%&gt;%</span> <span class="fu">bind_cols</span>(<span class="fu">predict</span>(m2, <span class="at">newdata =</span> data_plot, <span class="at">interval =</span> <span class="st">"confidence"</span>))</span></code><button title="Copy to Clipboard" class="code-copy-button"><i class="bi"></i></button></pre></div>
 </div>
 <div class="cell">
-<div class="sourceCode cell-code" id="cb19"><pre class="sourceCode r code-with-copy"><code class="sourceCode r"><span id="cb19-1"><a href="#cb19-1" aria-hidden="true" tabindex="-1"></a>dd_complete <span class="sc">%&gt;%</span> </span>
-<span id="cb19-2"><a href="#cb19-2" aria-hidden="true" tabindex="-1"></a>  <span class="fu">ggplot</span>(<span class="fu">aes</span>(N_total, GYdry))<span class="sc">+</span></span>
-<span id="cb19-3"><a href="#cb19-3" aria-hidden="true" tabindex="-1"></a>  <span class="fu">theme_classic</span>()<span class="sc">+</span></span>
-<span id="cb19-4"><a href="#cb19-4" aria-hidden="true" tabindex="-1"></a>  <span class="fu">geom_ribbon</span>(<span class="fu">aes</span>(<span class="at">y =</span> fit, <span class="at">ymin =</span> lwr, <span class="at">ymax =</span> upr, <span class="at">group =</span> Block), <span class="at">data =</span> data_plot, <span class="at">alpha =</span> .<span class="dv">15</span>)<span class="sc">+</span></span>
-<span id="cb19-5"><a href="#cb19-5" aria-hidden="true" tabindex="-1"></a>  <span class="fu">geom_line</span>(<span class="fu">aes</span>(<span class="at">y =</span> fit, <span class="at">group =</span> Block), <span class="at">data =</span> data_plot)<span class="sc">+</span></span>
-<span id="cb19-6"><a href="#cb19-6" aria-hidden="true" tabindex="-1"></a>  <span class="fu">geom_point</span>()</span></code><button title="Copy to Clipboard" class="code-copy-button"><i class="bi"></i></button></pre></div>
+<div class="sourceCode cell-code" id="cb16"><pre class="sourceCode r code-with-copy"><code class="sourceCode r"><span id="cb16-1"><a href="#cb16-1" aria-hidden="true" tabindex="-1"></a>dd_complete <span class="sc">%&gt;%</span> </span>
+<span id="cb16-2"><a href="#cb16-2" aria-hidden="true" tabindex="-1"></a>  <span class="fu">ggplot</span>(<span class="fu">aes</span>(N_total, gyield_14))<span class="sc">+</span></span>
+<span id="cb16-3"><a href="#cb16-3" aria-hidden="true" tabindex="-1"></a>  <span class="fu">theme_classic</span>()<span class="sc">+</span></span>
+<span id="cb16-4"><a href="#cb16-4" aria-hidden="true" tabindex="-1"></a>  <span class="fu">geom_ribbon</span>(<span class="fu">aes</span>(<span class="at">y =</span> fit, <span class="at">ymin =</span> lwr, <span class="at">ymax =</span> upr, <span class="at">group =</span> Block), <span class="at">data =</span> data_plot, <span class="at">alpha =</span> .<span class="dv">15</span>)<span class="sc">+</span></span>
+<span id="cb16-5"><a href="#cb16-5" aria-hidden="true" tabindex="-1"></a>  <span class="fu">geom_line</span>(<span class="fu">aes</span>(<span class="at">y =</span> fit, <span class="at">group =</span> Block), <span class="at">data =</span> data_plot)<span class="sc">+</span></span>
+<span id="cb16-6"><a href="#cb16-6" aria-hidden="true" tabindex="-1"></a>  <span class="fu">geom_point</span>()<span class="sc">+</span></span>
+<span id="cb16-7"><a href="#cb16-7" aria-hidden="true" tabindex="-1"></a>  <span class="fu">labs</span>(<span class="at">x =</span> <span class="fu">expression</span>(Total<span class="sc">~</span>N<span class="sc">~</span>Applied<span class="sc">~</span>(kg<span class="sc">~</span>ha<span class="sc">^</span>{<span class="sc">-</span><span class="dv">1</span>})),</span>
+<span id="cb16-8"><a href="#cb16-8" aria-hidden="true" tabindex="-1"></a>       <span class="at">y =</span> <span class="fu">expression</span>(Grain<span class="sc">~</span>Yield<span class="sc">~</span>(kg<span class="sc">~</span>ha<span class="sc">^</span>{<span class="sc">-</span><span class="dv">1</span>})))</span></code><button title="Copy to Clipboard" class="code-copy-button"><i class="bi"></i></button></pre></div>
 <div class="cell-output-display">
-<p><img src="day20_10042024_files/figure-html/unnamed-chunk-10-1.png" class="img-fluid" width="672"></p>
+<p><img src="day20_10042024_files/figure-html/unnamed-chunk-9-1.png" class="img-fluid" width="672"></p>
 </div>
 </div>
 <div class="alert alert-info">
